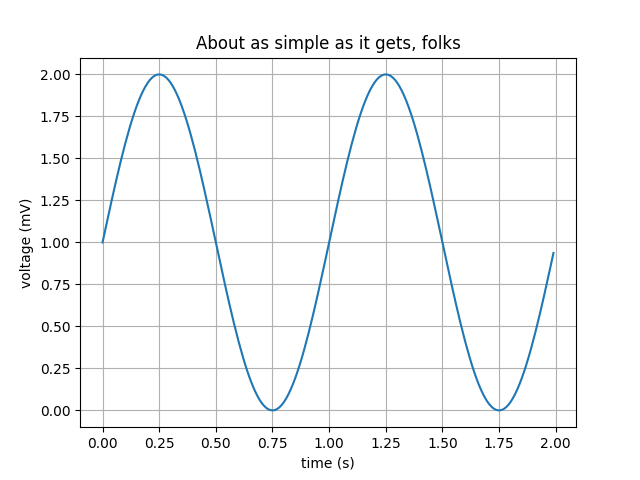
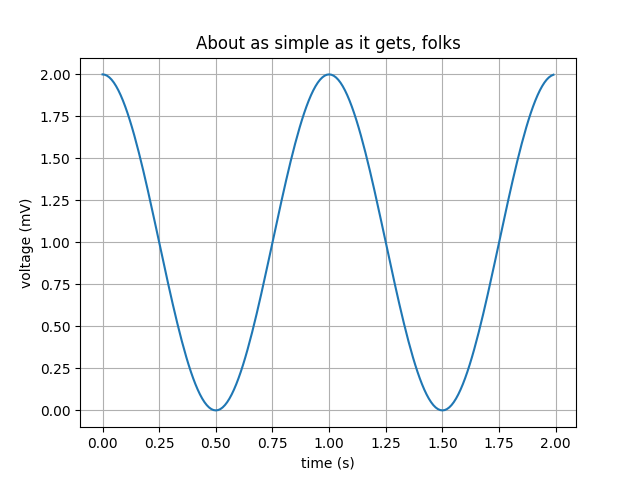
Lab06

diff --git a/tutmatplot.py b/tutmatplot.py
@@ -3,7 +3,7 @@ import numpy as np
 ### Simple Plot
 # Data for plotting
 # t = np.arange(0.0, 2.0, 0.01)
-# s = 1 + np.sin(2 * np.pi * t)
+# s = 1 + np.cos(2 * np.pi * t)
 
 # fig, ax = plt.subplots()
 # ax.plot(t, s)
@@ -30,16 +30,15 @@ import numpy as np
 ###############################################
 ### Pie Chart
 # Pie chart, where the slices will be ordered and plotted counter-clockwise:
-# labels = 'Frogs', 'Hogs', 'Dogs', 'Logs'
-# sizes = [15, 30, 45, 10]
-# explode = (0, 0.1, 0, 0)  # only "explode" the 2nd slice (i.e. 'Hogs')
+labels = 'Aqib', 'Ali', 'Shahbaz', 'Saad'
+sizes = [1500, 3000, 4500, 1000]
+explode = (0, 0, 0, 0.1)  # only "explode" the 2nd slice (i.e. 'Hogs')
 
-# fig1, ax1 = plt.subplots()
-# ax1.pie(sizes, explode=explode, labels=labels, autopct='%1.1f%%',
-#         shadow=True, startangle=90)
-# ax1.axis('equal')  # Equal aspect ratio ensures that pie is drawn as a circle.
-
-# plt.show()
+fig1, ax1 = plt.subplots()
+ax1.pie(sizes, explode=explode, labels=labels, autopct='%1.1f%%',
+       shadow=True, startangle=90)
+ax1.axis('equal')  # Equal aspect ratio ensures that pie is drawn as a circle.
+plt.show()
 
 
 
@@ -152,12 +151,12 @@ from matplotlib.tri import (
 # ----------------------------------------------------------------------------
 # Electrical potential of a dipole
 # ----------------------------------------------------------------------------
-def dipole_potential(x, y):
-    """The electric dipole potential V, at position *x*, *y*."""
-    r_sq = x**2 + y**2
-    theta = np.arctan2(y, x)
-    z = np.cos(theta)/r_sq
-    return (np.max(z) - z) / (np.max(z) - np.min(z))
+# def dipole_potential(x, y):
+#     """The electric dipole potential V, at position *x*, *y*."""
+#     r_sq = x**2 + y**2
+#     theta = np.arctan2(y, x)
+#     z = np.cos(theta)/r_sq
+#     return (np.max(z) - z) / (np.max(z) - np.min(z))
 
 
 # ----------------------------------------------------------------------------
@@ -221,3 +220,4 @@ def dipole_potential(x, y):
 
 # ax.set_title('Gradient plot: an electrical dipole')
 # plt.show()
+

diff --git a/firstfunction.py b/firstfunction.py
@@ -1,0 +1,17 @@
+def add(x,y):
+    sum = x+y
+    print('the sum is ',sum) 
+def print_profile(roll,name,semester):
+    print('Your Roll number is', roll)
+    print('Your Name is: ',name)
+    print('and your semester is: ', semester)
+def listprint(record):
+    print('Your Roll number is', record[0])
+    print('Your Name is: '  ,record[1])
+    print('and your semester is: ', record[2])
+    
+record = ['21TC54','Abdul Rehman','First']
+record1 = ['21TC45','Arsalan','First']
+listprint(record)
+listprint(record1)
+
